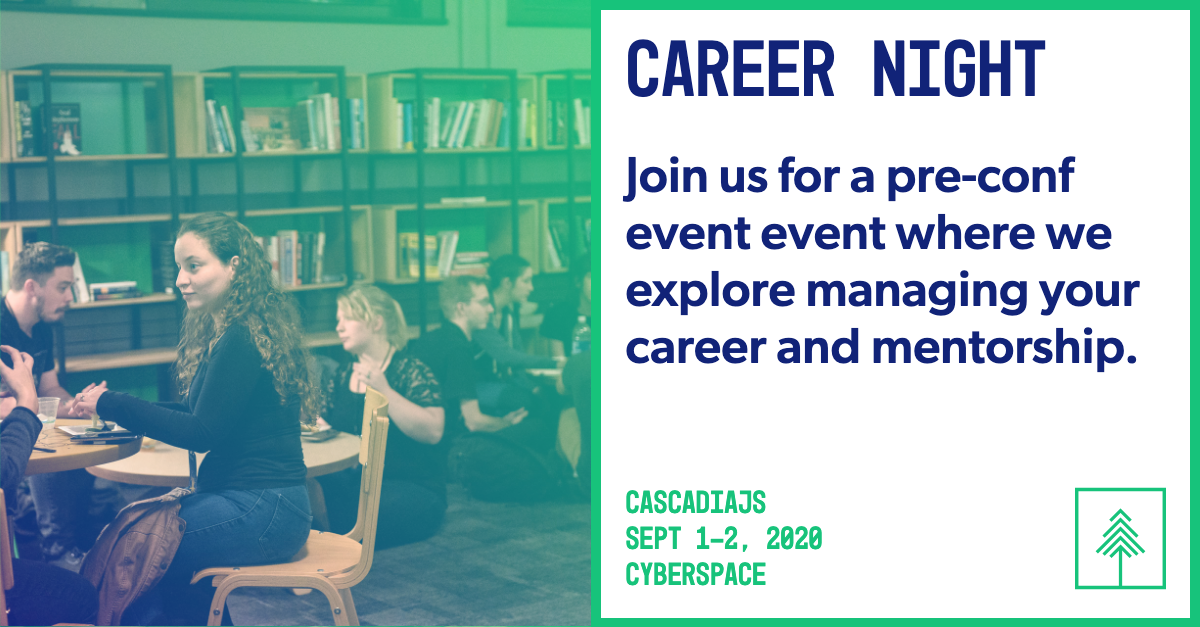
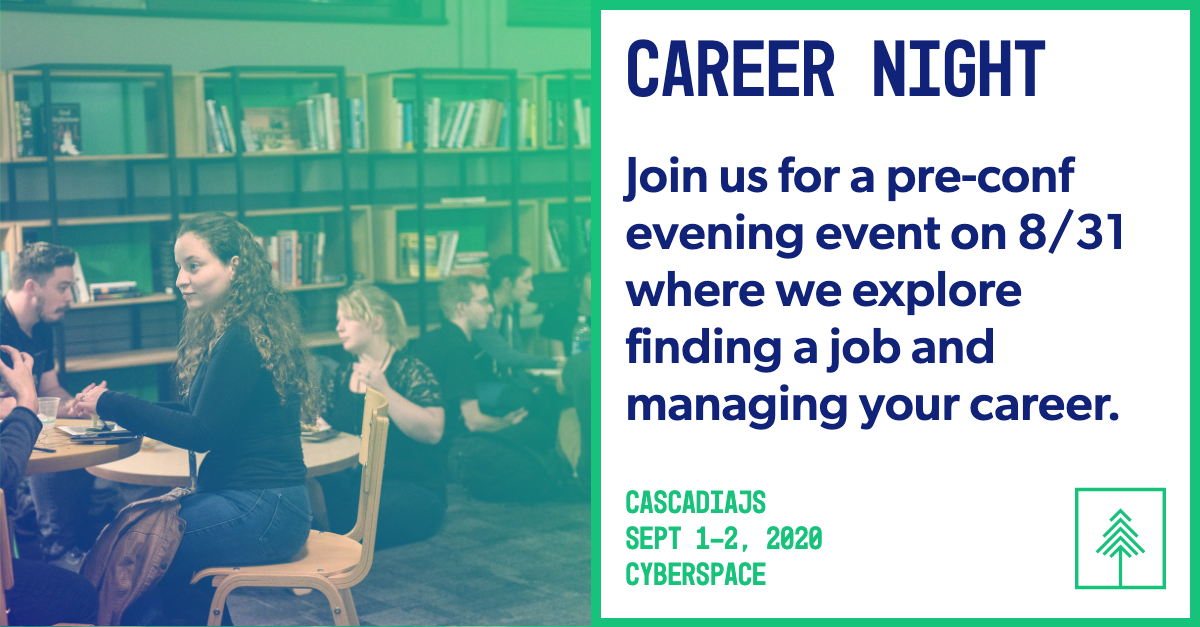
career night updates

Changed region(s): [[0.5242, 0.3333, 0.9558, 0.697]]

diff --git a/src/views/pages/content/career-night.md b/src/views/pages/content/career-night.md
@@ -1,7 +1,7 @@
 ---
 title: Career Night
 image: /images/career-night.jpg
-excerpt: Join us for a pre-conf evening event where we explore find a job and managing your career.
+excerpt: Join us for a pre-conf evening event on 8/31 where we explore finding a job and managing your career.
 ---
 ![Folks sitting down and talking at an evening event](/images/career-night.jpg)
 
@@ -38,9 +38,14 @@ New to tech? Or maybe experienced and also searching for someone who can mentor 
 
 ## Venturing Out
 
+<img src="/images/vo-logo.png" width="200" alt="Venture Out logo"/>
+
 Have you ever thought about leaving "Big Tech" and starting a company, but you didn't know how? Ken Horenstein from [Venture Out](https://ventureoutstartups.com/) will host a fireside chat with an engineer who left their job at a big tech company and they will share their experience venturing out and starting something new!
 
-<img src="/images/vo-logo.png" width="200" alt="Venture Out logo"/>
+For folks who are already going down this path:
+
+1. Applications are open for the [Launch Lab](https://ventureoutstartups.com/launch).
+2. Join the [Founder's Forum](https://ventureoutstartups.com/founder-forums) to connect with a community of founders who support each other.
 
 ## Remo
 
